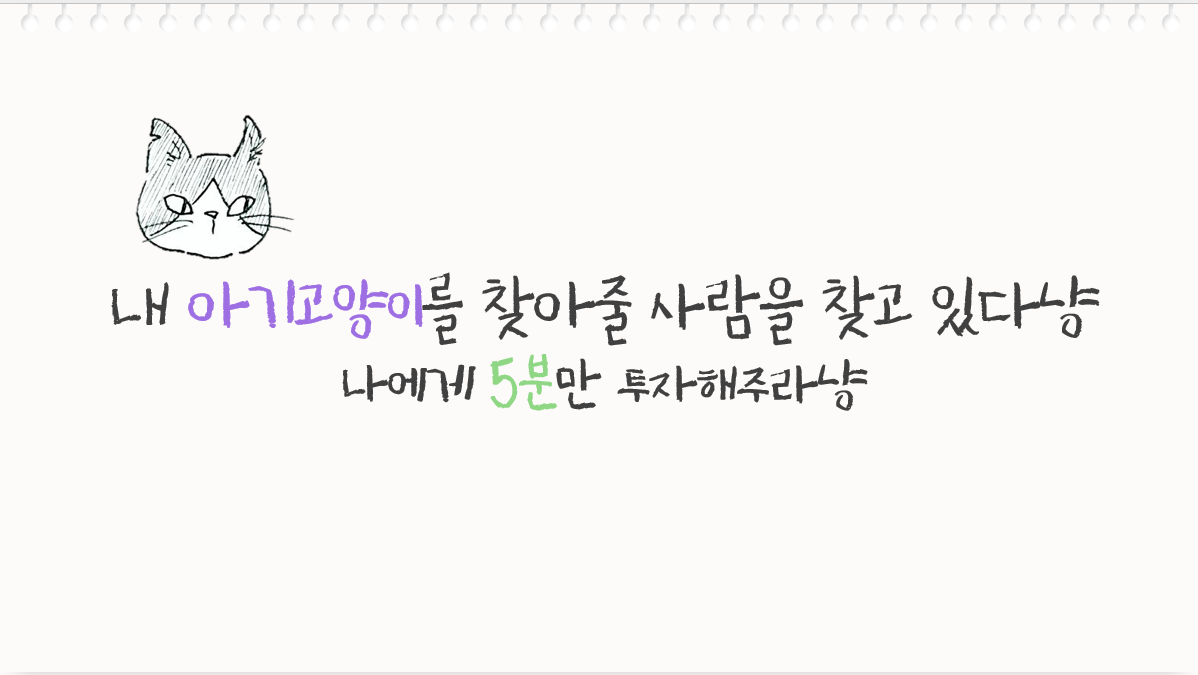
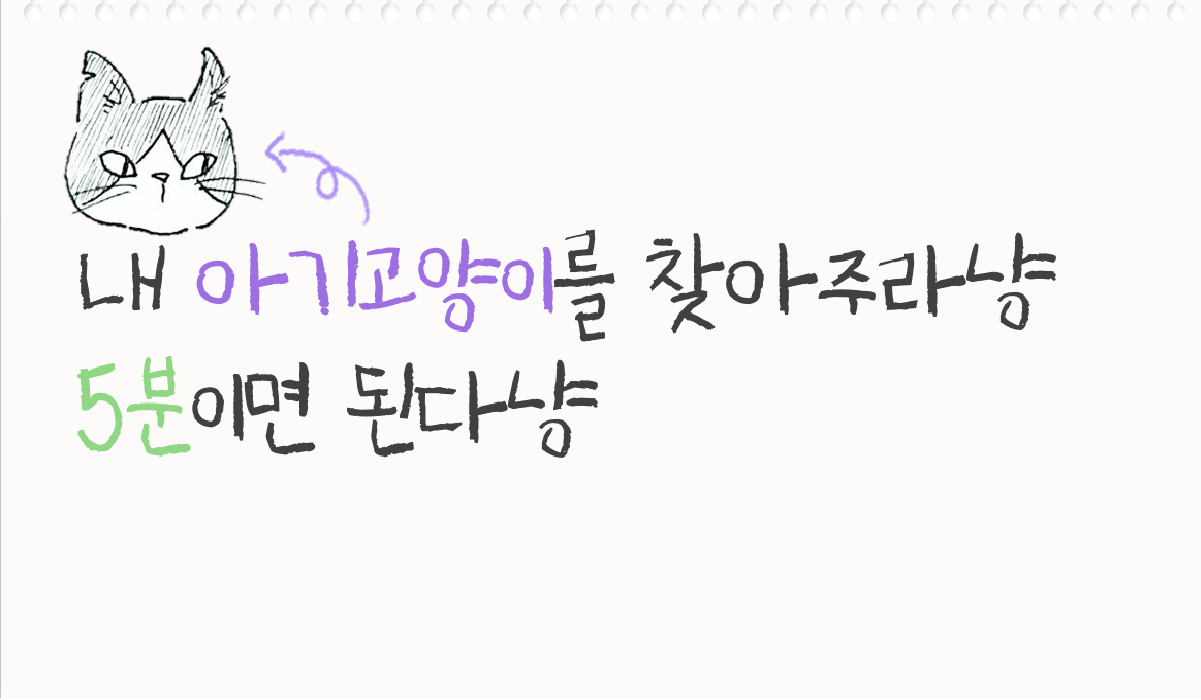
blink complete

diff --git a/scripts/eyes.py b/scripts/eyes.py
@@ -13,72 +13,167 @@ global pwd
 #window
 #pwd = "C:/Users/Lee/anaconda3/envs/crashlab/Scripts/image/"
 #ubuntu
-pwd = "/home/jihwa/catkin_ws/src/crashlab_gui/image/"
+pwd = "/home/jihwa/catkin_ws/src/crashlab_gui/image/BLINK/"
+#pwd = "/home/jihwa/catkin_ws/src/crashlab_gui/image/"
 
 class eye_ui(Tk):
 	
 	def __init__(self):
 		super().__init__()
-		self.geometry("900x550")
+		self.geometry("1210x760")
 		#self.geometry('%dx%d+%d+%d' %(w,h,x,y))
 		self.resizable(False, False)
+
+		self.mode = 0
+		self.mode_new = 0
+		self.direction = 0 
 
 		#ros
 		rospy.init_node('eyes_gui', anonymous=True)
 
-	def BackGroundSetting(self, bgname):
-		self.backGroundImage=PhotoImage(file=pwd+bgname+"1.png")
-		self.backGroundImageLabel1=Label(self, image=self.backGroundImage)
-		self.backGroundImage=PhotoImage(file=pwd+bgname+"2.png")
-		self.backGroundImageLabel2=Label(self, image=self.backGroundImage)
-		self.backGroundImage=PhotoImage(file=pwd+bgname+"3.png")
-		self.backGroundImageLabel3=Label(self, image=self.backGroundImage)
-		self.backGroundImage=PhotoImage(file=pwd+bgname+"4.png")
-		self.backGroundImageLabel4=Label(self, image=self.backGroundImage)
-		eye_ui.BackGround1()
-		
-	def BackGround1(self):
-		try:
-			self.backGroundImageLabel4.place_forget()
-		self.backGroundImageLabel1.place(x=0, y=0)
 
+	def BackGroundSetting(self, bgname):
+
+		src=Image.open(pwd+bgname+"1.png")
+		src=src.resize((1210, 760), Image.ANTIALIAS)
+		self.backGroundImage1=ImageTk.PhotoImage(src)
+		self.backGroundImageLabel1=Label(self, image=self.backGroundImage1)
+
+		src=Image.open(pwd+bgname+"2.png")
+		src=src.resize((1210, 760), Image.ANTIALIAS)
+		self.backGroundImage2=ImageTk.PhotoImage(src)
+		self.backGroundImageLabel2=Label(self, image=self.backGroundImage2)
+
+		src=Image.open(pwd+bgname+"3.png")
+		src=src.resize((1210, 760), Image.ANTIALIAS)
+		self.backGroundImage3=ImageTk.PhotoImage(src)
+		self.backGroundImageLabel3=Label(self, image=self.backGroundImage3)
+
+		src=Image.open(pwd+bgname+"4.png")
+		src=src.resize((1210, 760), Image.ANTIALIAS)
+		self.backGroundImage4=ImageTk.PhotoImage(src)
+		self.backGroundImageLabel4=Label(self, image=self.backGroundImage4)
+
+		src=Image.open(pwd+bgname+"5.png")
+		src=src.resize((1210, 760), Image.ANTIALIAS)
+		self.backGroundImage5=ImageTk.PhotoImage(src)
+		self.backGroundImageLabel5=Label(self, image=self.backGroundImage5)
+
+		src=Image.open(pwd+bgname+"6.png")
+		src=src.resize((1210, 760), Image.ANTIALIAS)
+		self.backGroundImage6=ImageTk.PhotoImage(src)
+		self.backGroundImageLabel6=Label(self, image=self.backGroundImage6)
+
+
+
+	def BackGround1(self):
+		print(str(self.mode) + "page1")
+		try:
+			self.backGroundImageLabel2.place_forget()
+		except:
+			pass
+		
+		self.backGroundImageLabel1.place(x=0, y=0)
+		
 		if self.mode == self.mode_new:
-			eye_ui.after(500, eye_ui.BackGround2)
+			eye_ui.after(1000, eye_ui.BackGround2)
+			if self.direction == 1:
+				self.direction = 0	
 		else:
 			eye_ui.main()
 		
 	def BackGround2(self):
-		self.backGroundImageLabel1.place_forget()
+		print(str(self.mode)+ "page2")
+
+		if self.direction == 0:
+			self.backGroundImageLabel1.place_forget()
+		else : 
+			self.backGroundImageLabel3.place_forget()
+
 		self.backGroundImageLabel2.place(x=0, y=0)
 
 		if self.mode == self.mode_new:
-			eye_ui.after(500, eye_ui.BackGround3)
+			if self.direction == 0:
+				eye_ui.after(100, eye_ui.BackGround3)
+			else : 
+				eye_ui.after(100, eye_ui.BackGround1)
 		else:
 			eye_ui.main()
 
 	def BackGround3(self):
-		self.backGroundImageLabel2.place_forget()
+		print(str(self.mode) + "page3")
+
+		if self.direction == 0:
+			self.backGroundImageLabel2.place_forget()
+		else : 
+			self.backGroundImageLabel4.place_forget()
+
 		self.backGroundImageLabel3.place(x=0, y=0)
 
 		if self.mode == self.mode_new:
-			eye_ui.after(500, eye_ui.BackGround4)
+			if self.direction == 0:
+				eye_ui.after(100, eye_ui.BackGround4)
+			else : 
+				eye_ui.after(100, eye_ui.BackGround2)
 		else:
 			eye_ui.main()
 
 	def BackGround4(self):
-		self.backGroundImageLabel3.place_forget()
+		print(str(self.mode) + "page4")
+
+		if self.direction == 0:
+			self.backGroundImageLabel3.place_forget()
+		else : 
+			self.backGroundImageLabel5.place_forget()
+
 		self.backGroundImageLabel4.place(x=0, y=0)
 
 		if self.mode == self.mode_new:
-			eye_ui.after(500, eye_ui.BackGround1)
+			if self.direction == 0:
+				eye_ui.after(100, eye_ui.BackGround5)
+			else : 
+				eye_ui.after(100, eye_ui.BackGround3)
+		else:
+			eye_ui.main()
+
+	def BackGround5(self):
+		print(str(self.mode)+ "page5")
+
+		if self.direction == 0:
+			self.backGroundImageLabel4.place_forget()
+		else : 
+			self.backGroundImageLabel6.place_forget()
+		self.backGroundImageLabel5.place(x=0, y=0)
+
+		if self.mode == self.mode_new:
+			if self.direction == 0:
+				eye_ui.after(100, eye_ui.BackGround6)
+			else : 
+				eye_ui.after(100, eye_ui.BackGround4)
+		else:
+			eye_ui.main()
+
+	def BackGround6(self):
+		print(str(self.mode) + "page6")
+		self.backGroundImageLabel5.place_forget()
+		self.backGroundImageLabel6.place(x=0, y=0)
+
+		if self.mode == self.mode_new:
+			if self.direction ==0:
+				eye_ui.after(100, eye_ui.BackGround5)
+				self.direction = 1
 		else:
 			eye_ui.main()
 
 
+
 	def main(self):
+		print(str(self.mode) + "main")
 		if self.mode == 0:
 			self.mode = self.mode_new
-			eye_ui.BackGroundSetting(happy)
+			print("in")
+			eye_ui.BackGroundSetting("blink")
+			eye_ui.BackGround1()
 		elif self.mode ==1:
 			self.mode = self.mode_new
 			eye_ui.BackGroundSetting(sad)
@@ -88,10 +183,13 @@ class eye_ui(Tk):
 		else:
 			self.mode = self.mode_new
 			eye_ui.BackGroundSetting(twinker)
-cd
 
-		eye_ui.mainloop()
+		
 
 if __name__ == "__main__":
+
 	eye_ui = eye_ui()
 	eye_ui.main()
+	eye_ui.mainloop()
+	
+	

diff --git a/scripts/pub_node.py b/scripts/pub_node.py
@@ -11,14 +11,14 @@ def talker():
 
 	rate = rospy.Rate(1)
 
-	pub_msg = Int32
+	pub_msg = Int32()
 	
 	count = 1
 
 	while not rospy.is_shutdown():
 		pub_msg.data = count
 		pub.publish(pub_msg)
-		rospy.loginfo(rospy.get_caller_id() + ' Publish : %d' % pub_msg.data)
+		rospy.loginfo(rospy.get_caller_id() + '/ Publish : %d' % pub_msg.data)
 
 		rate.sleep()
 

diff --git a/scripts/test.py b/scripts/test.py
@@ -19,7 +19,7 @@ class main_ui(Tk):
 	
 	def __init__(self):
 		super().__init__()
-		self.geometry("1200x700")
+		self.geometry("1550x860")
 		#self.geometry('%dx%d+%d+%d' %(w,h,x,y))
 		self.resizable(False, False)
 
